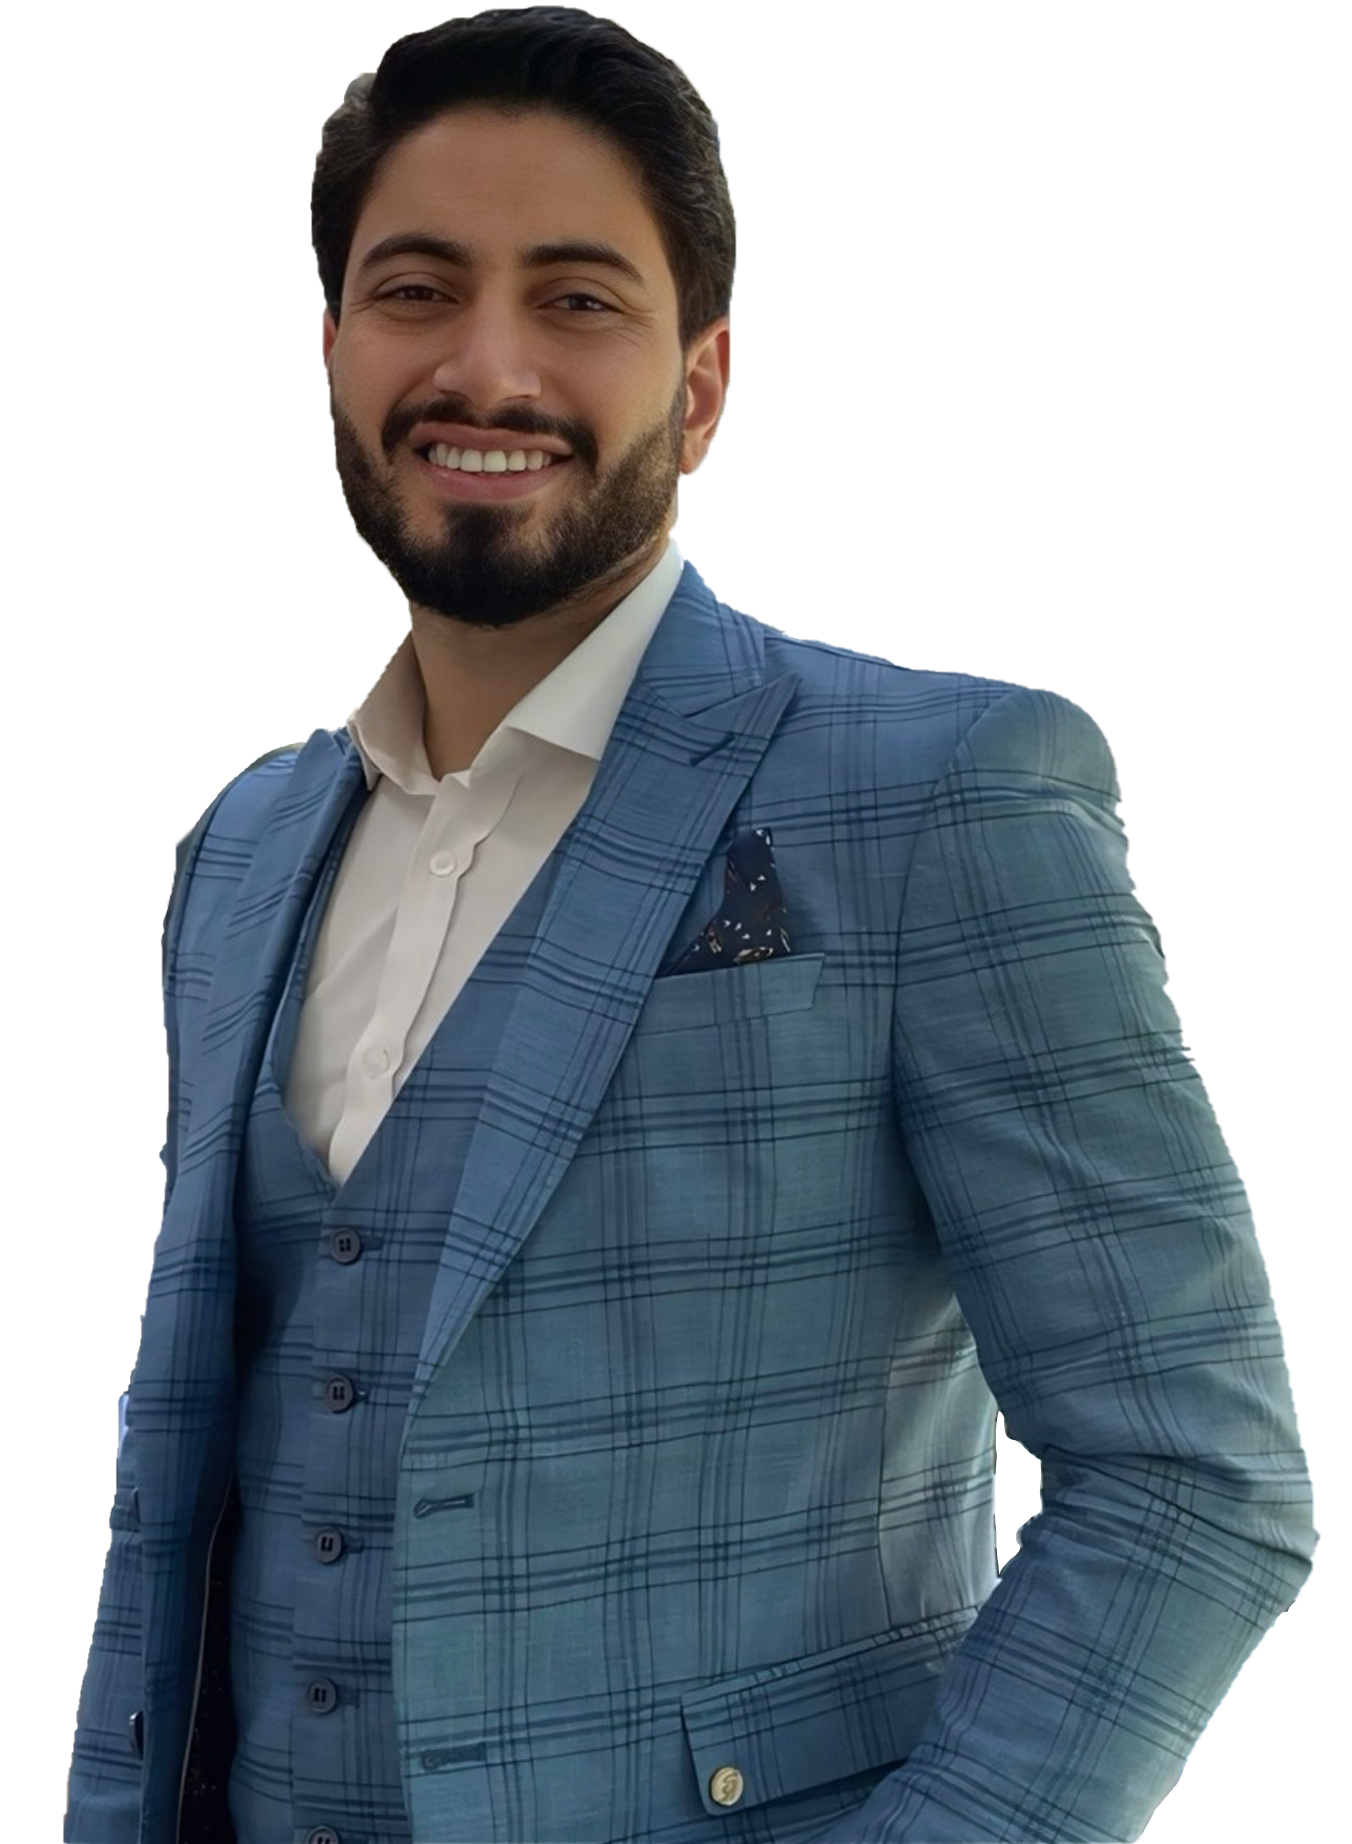
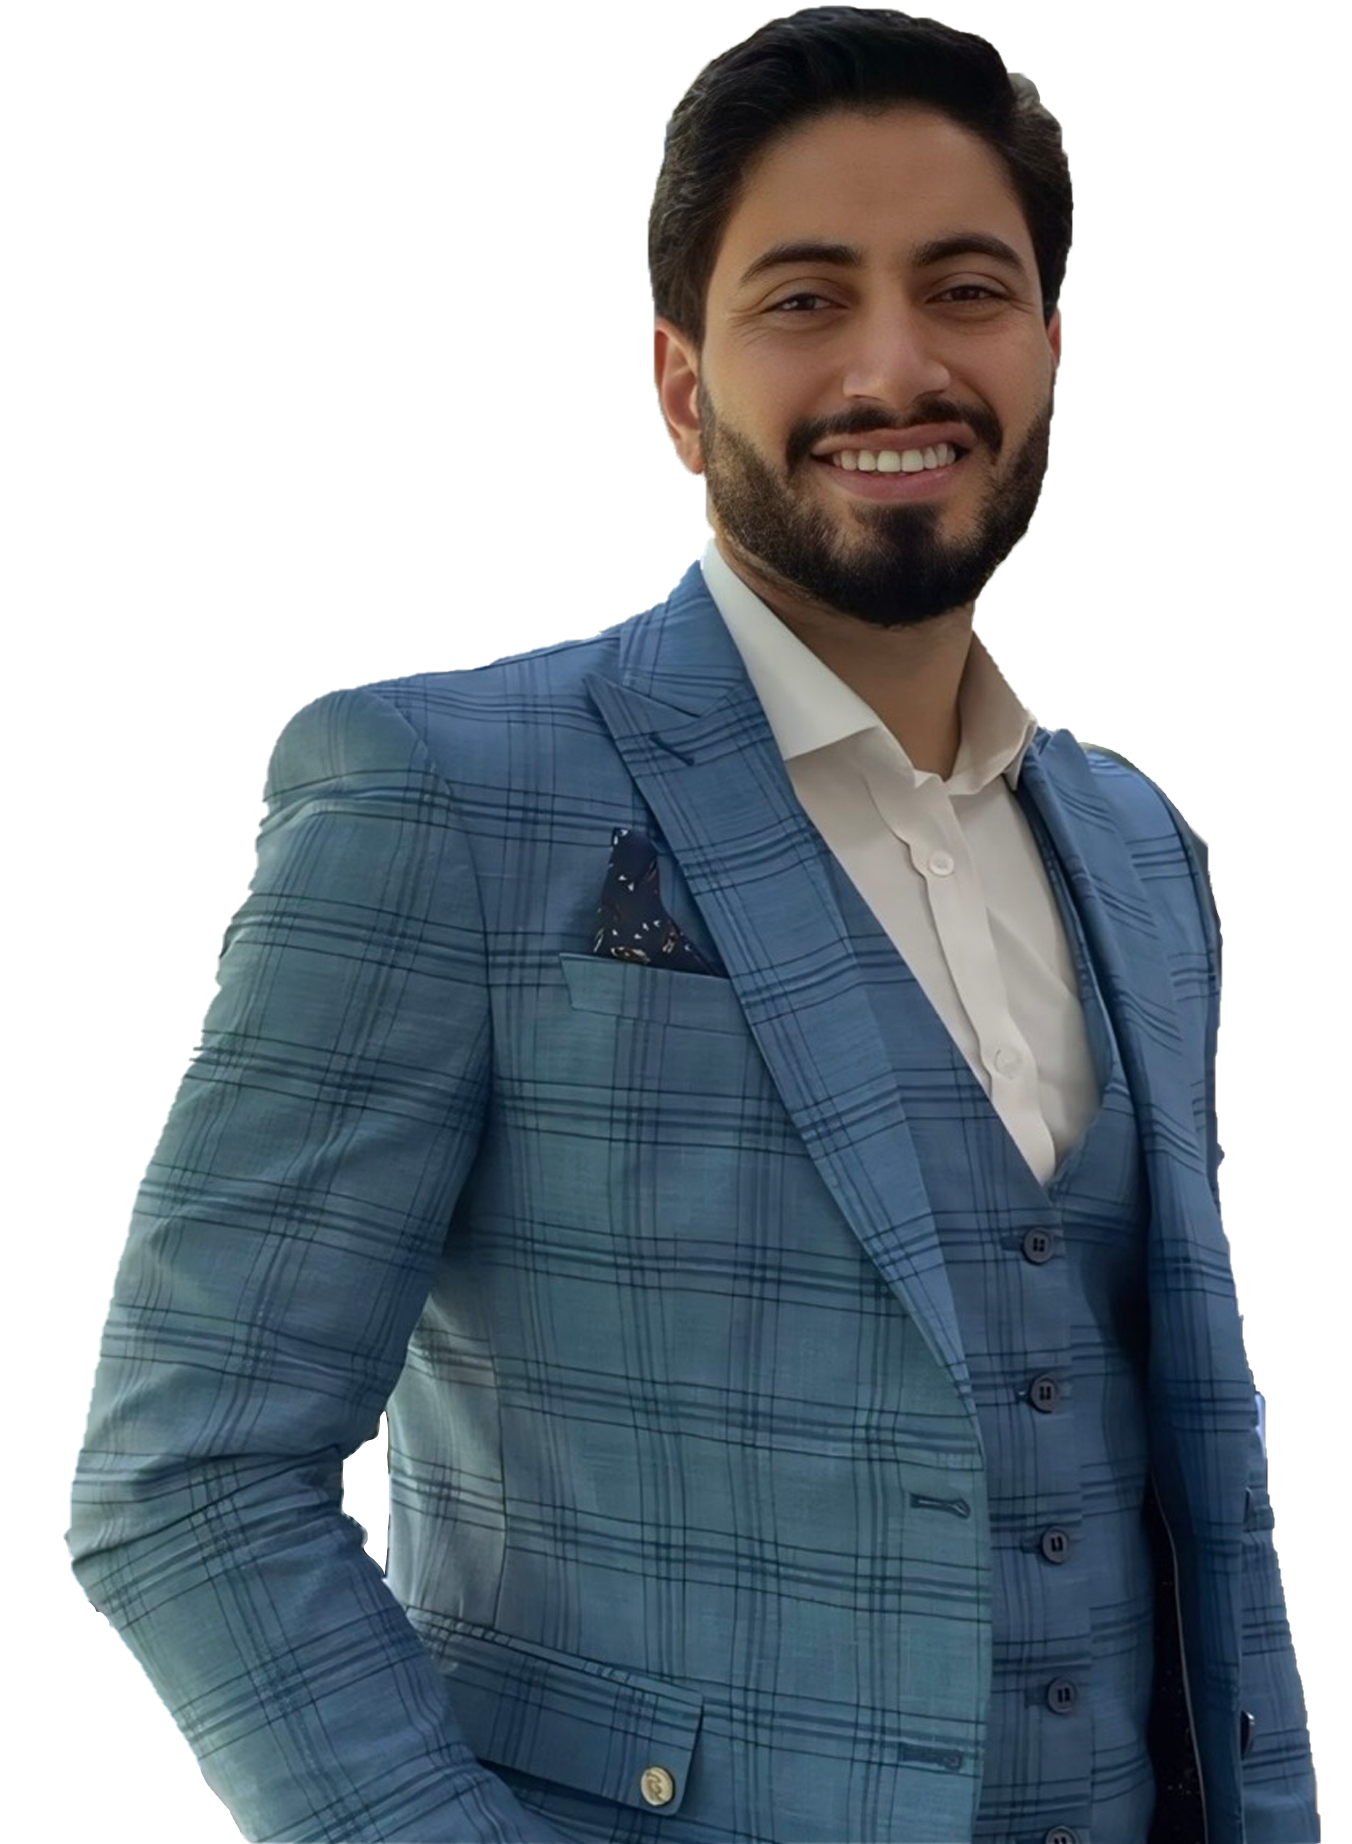
fix: story image orientation

diff --git a/src/components/Story/Story.js b/src/components/Story/Story.js
@@ -20,6 +20,8 @@ export function Story() {
 
             <div style={Styles.graybox}>
 
+                <img style={Styles.profile} src="/story-profile.png" />
+
                 <Slider style={Styles.carousel} settings={{
                     dots: true,
                     infinite: true,
@@ -72,8 +74,6 @@ export function Story() {
                         </h3>
                     </div>
                 </Slider>
-
-                <img style={Styles.profile} src="/story-profile.png" />
 
             </div>
 

diff --git a/src/components/Story/Styles.js b/src/components/Story/Styles.js
@@ -70,7 +70,7 @@ export const Styles = {
 
   profile: {
     height: "62vh",
-    margin: "0 0 0 5vw",
+    margin: "0 5vw 0 0",
     overflow: "visible"
   }
 }
